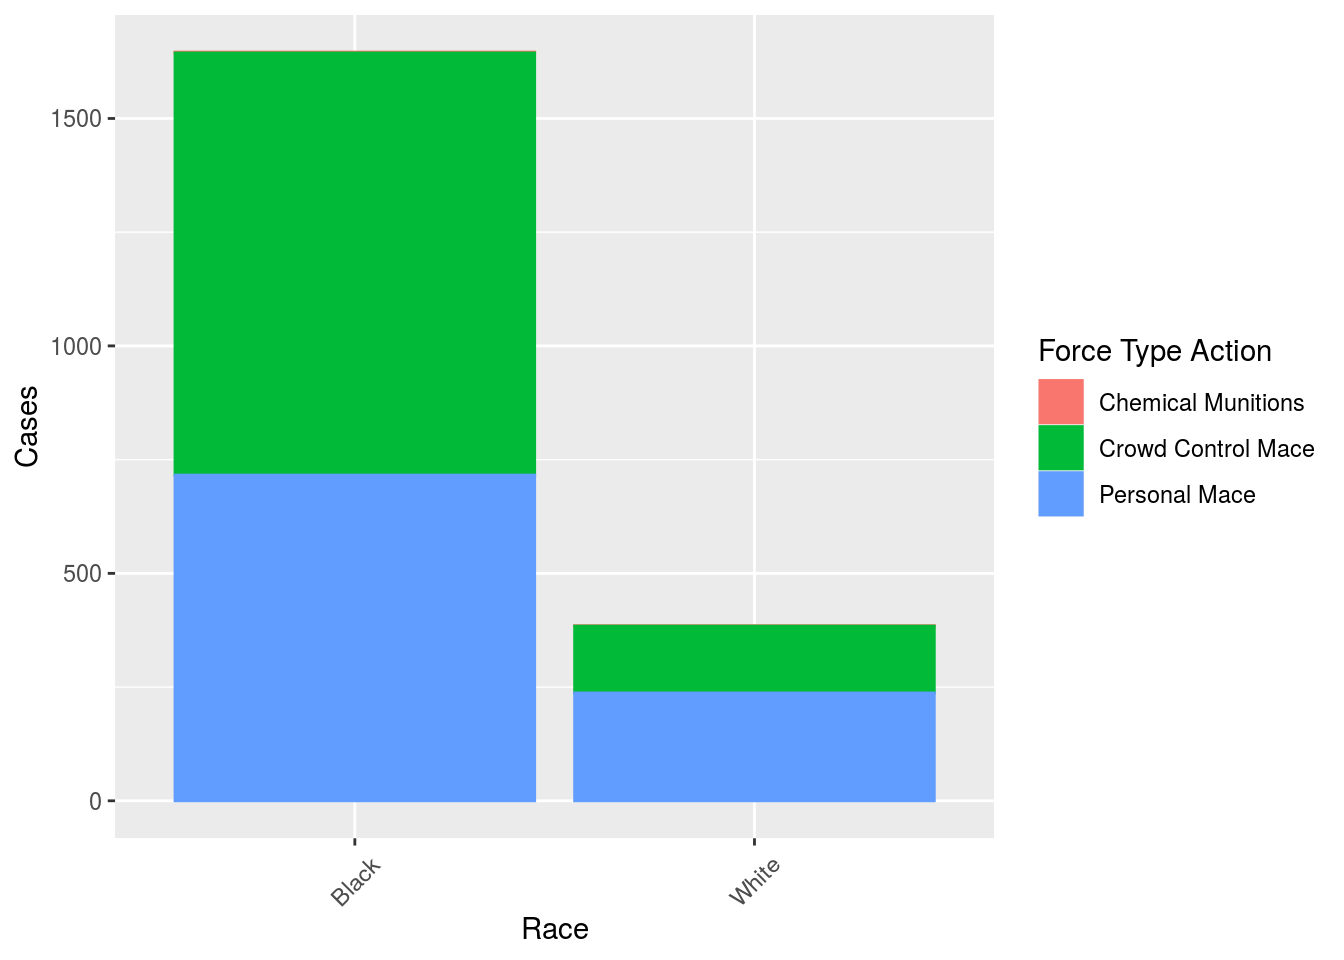
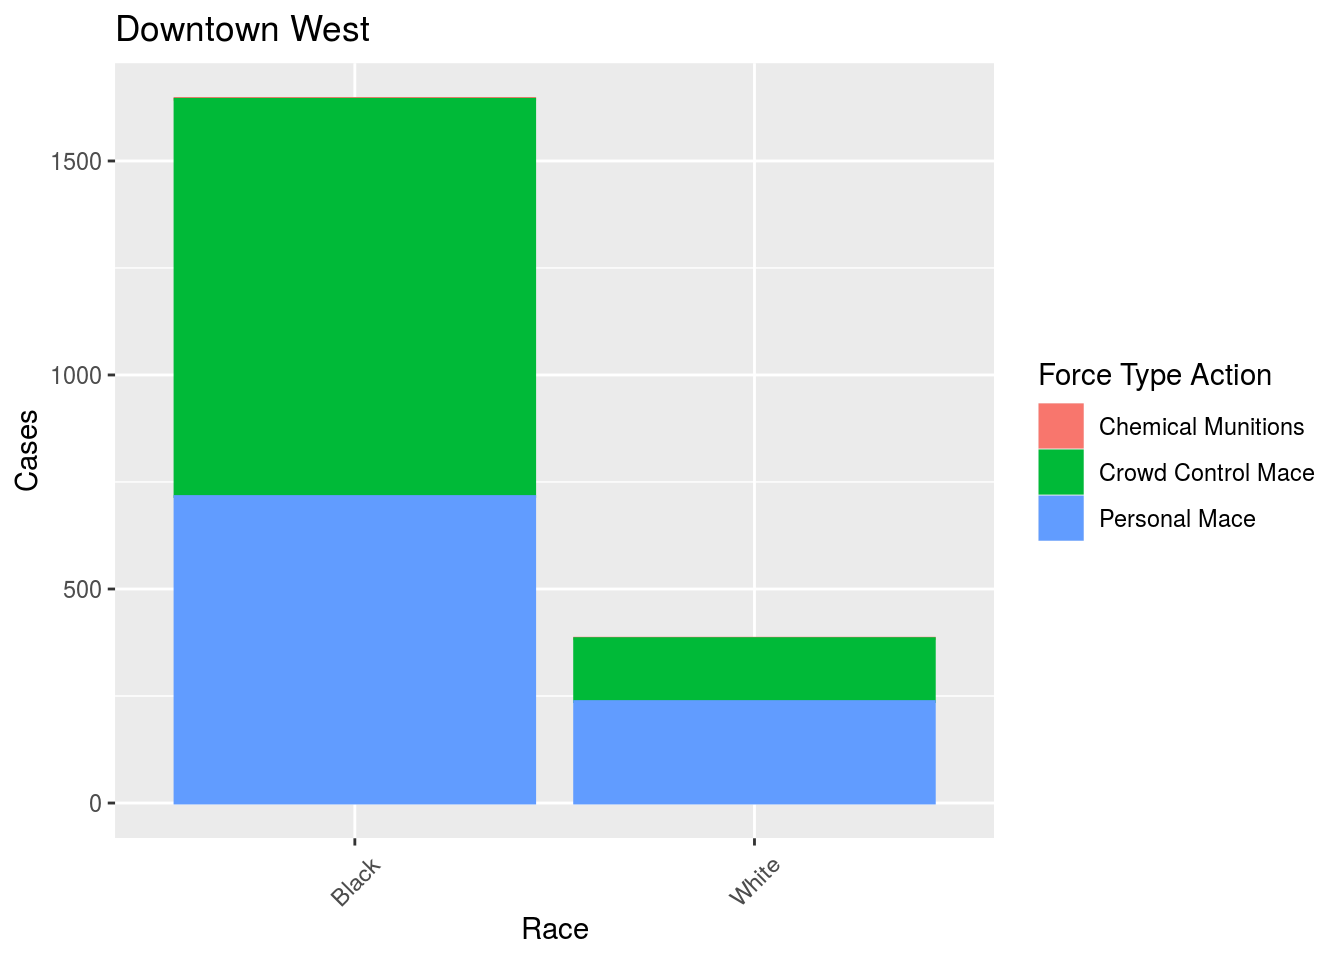
trying to get more info to work

diff --git a/docs/index.html b/docs/index.html
@@ -374,11 +374,11 @@ div.tocify {
 <p><img src="index_files/figure-html/unnamed-chunk-4-1.png" width="672" /></p>
 <p>And we can also break it down by age.</p>
 <p><img src="index_files/figure-html/unnamed-chunk-5-1.png" width="672" /></p>
-<p>Something imporant to keep in mind is that <strong>only 19.4% of the population of Minneapolis is black</strong> <a href="#fn1" class="footnote-ref" id="fnref1"><sup>1</sup></a>. So it’s obvious that a African Americans are disproportionately represented in the data. The following graphic breaks down the cases by the problem that instigated the police to use force. <img src="index_files/figure-html/unnamed-chunk-6-1.png" width="672" /></p>
-<p>The following graphic breaks it down by the neighborhood in which the incident took place</p>
+<p>Something imporant to keep in mind is that <strong>only 19.4% of the population of Minneapolis is black</strong> <a href="#fn1" class="footnote-ref" id="fnref1"><sup>1</sup></a>. So it’s obvious that a African Americans are disproportionately represented in the data. The following graphic breaks down the cases by the problem that instigated the police to use force.</p>
+<p><img src="index_files/figure-html/unnamed-chunk-6-1.png" width="672" /></p>
+<p>The following graphic breaks it down by the neighborhood in which the incident took place.</p>
 <p><img src="index_files/figure-html/unnamed-chunk-7-1.png" width="672" /></p>
-<p>So the majority of cases take place in the Downtown West neighborhood of Minneapolis, the heart of the city.</p>
-<p>Focusing on the two most represented racial groups in the most represented neighborhood, we break it down by force type.</p>
+<p>So the majority of cases take place in the Downtown West neighborhood of Minneapolis, the heart of the city. Focusing on the two most represented racial groups in the most represented neighborhood, we break it down by force type.</p>
 <p><img src="index_files/figure-html/unnamed-chunk-8-1.png" width="672" /></p>
 <p>Focusing in on chemical irritants we have the following.</p>
 <p><img src="index_files/figure-html/unnamed-chunk-9-1.png" width="672" /></p>
